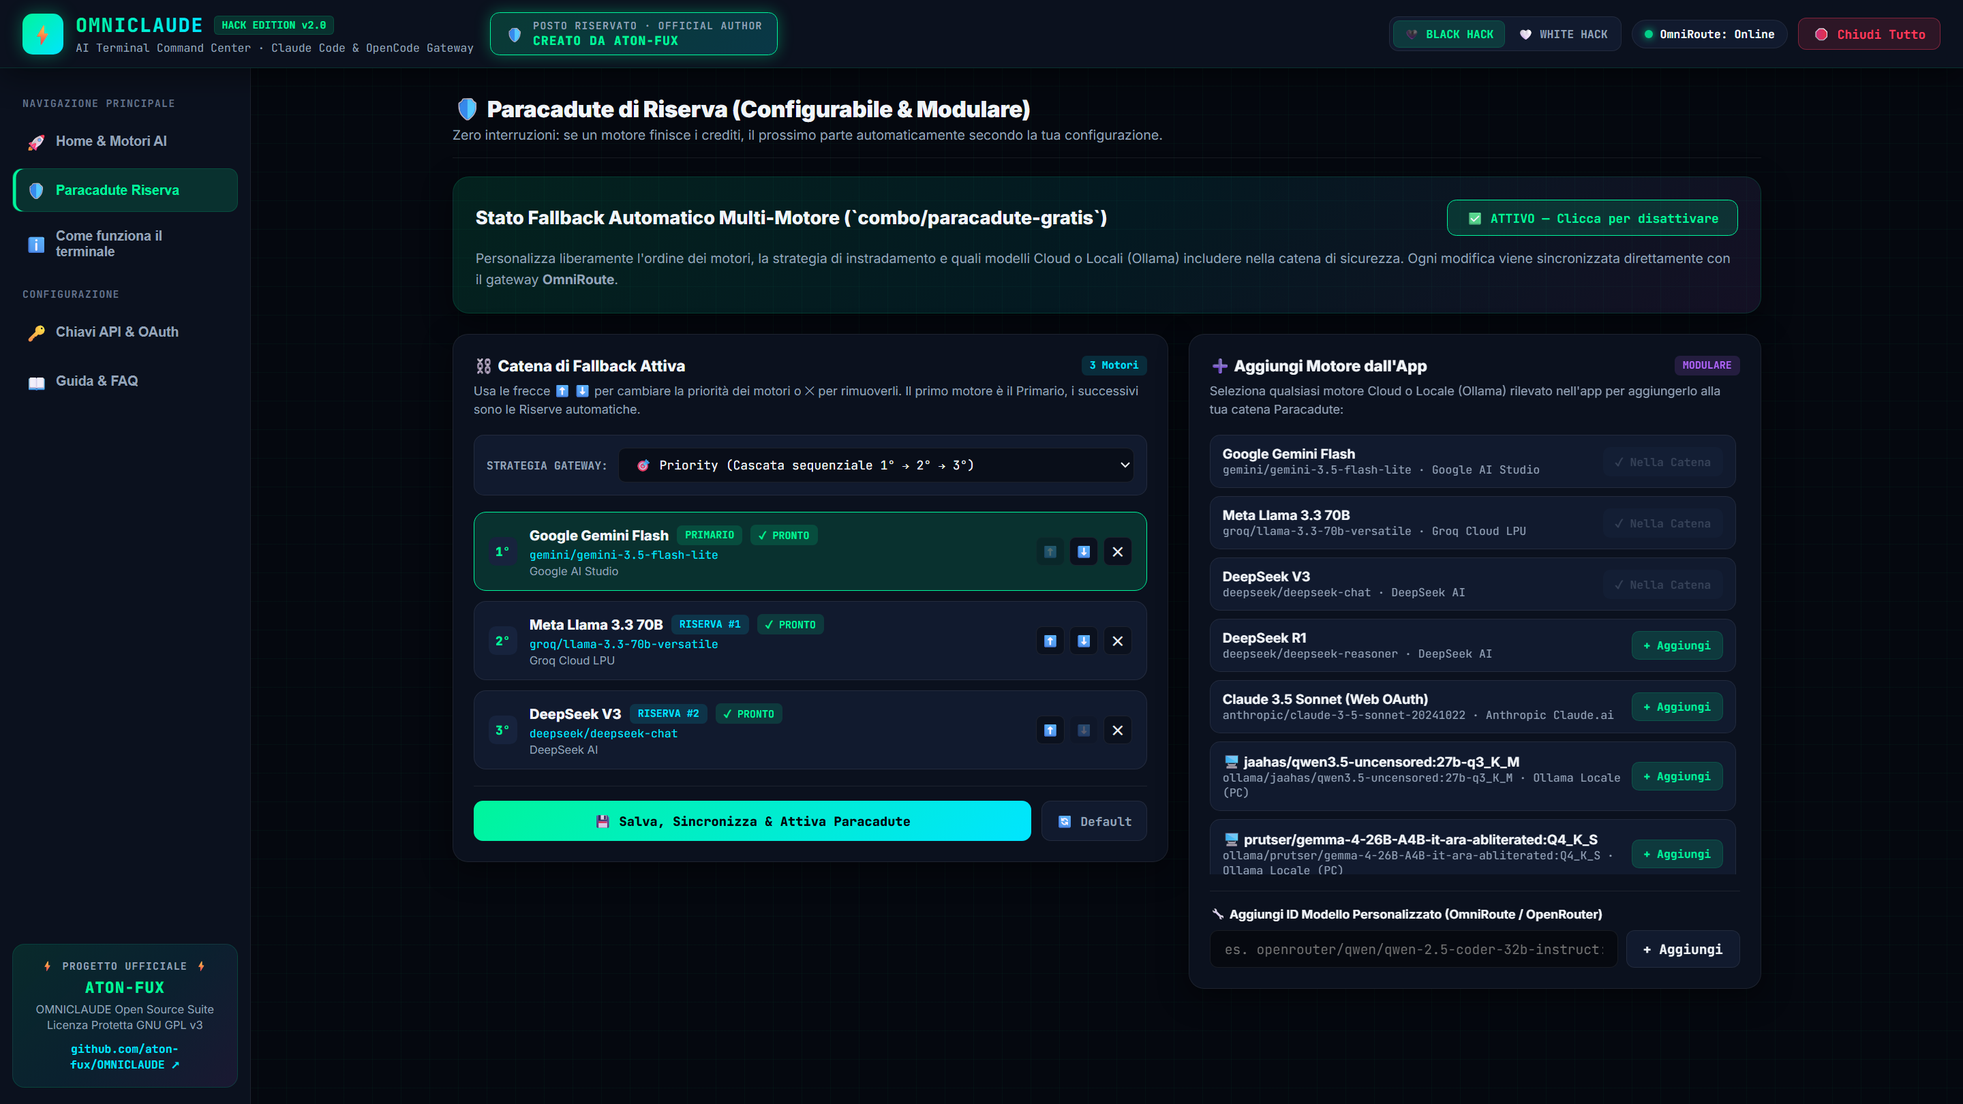
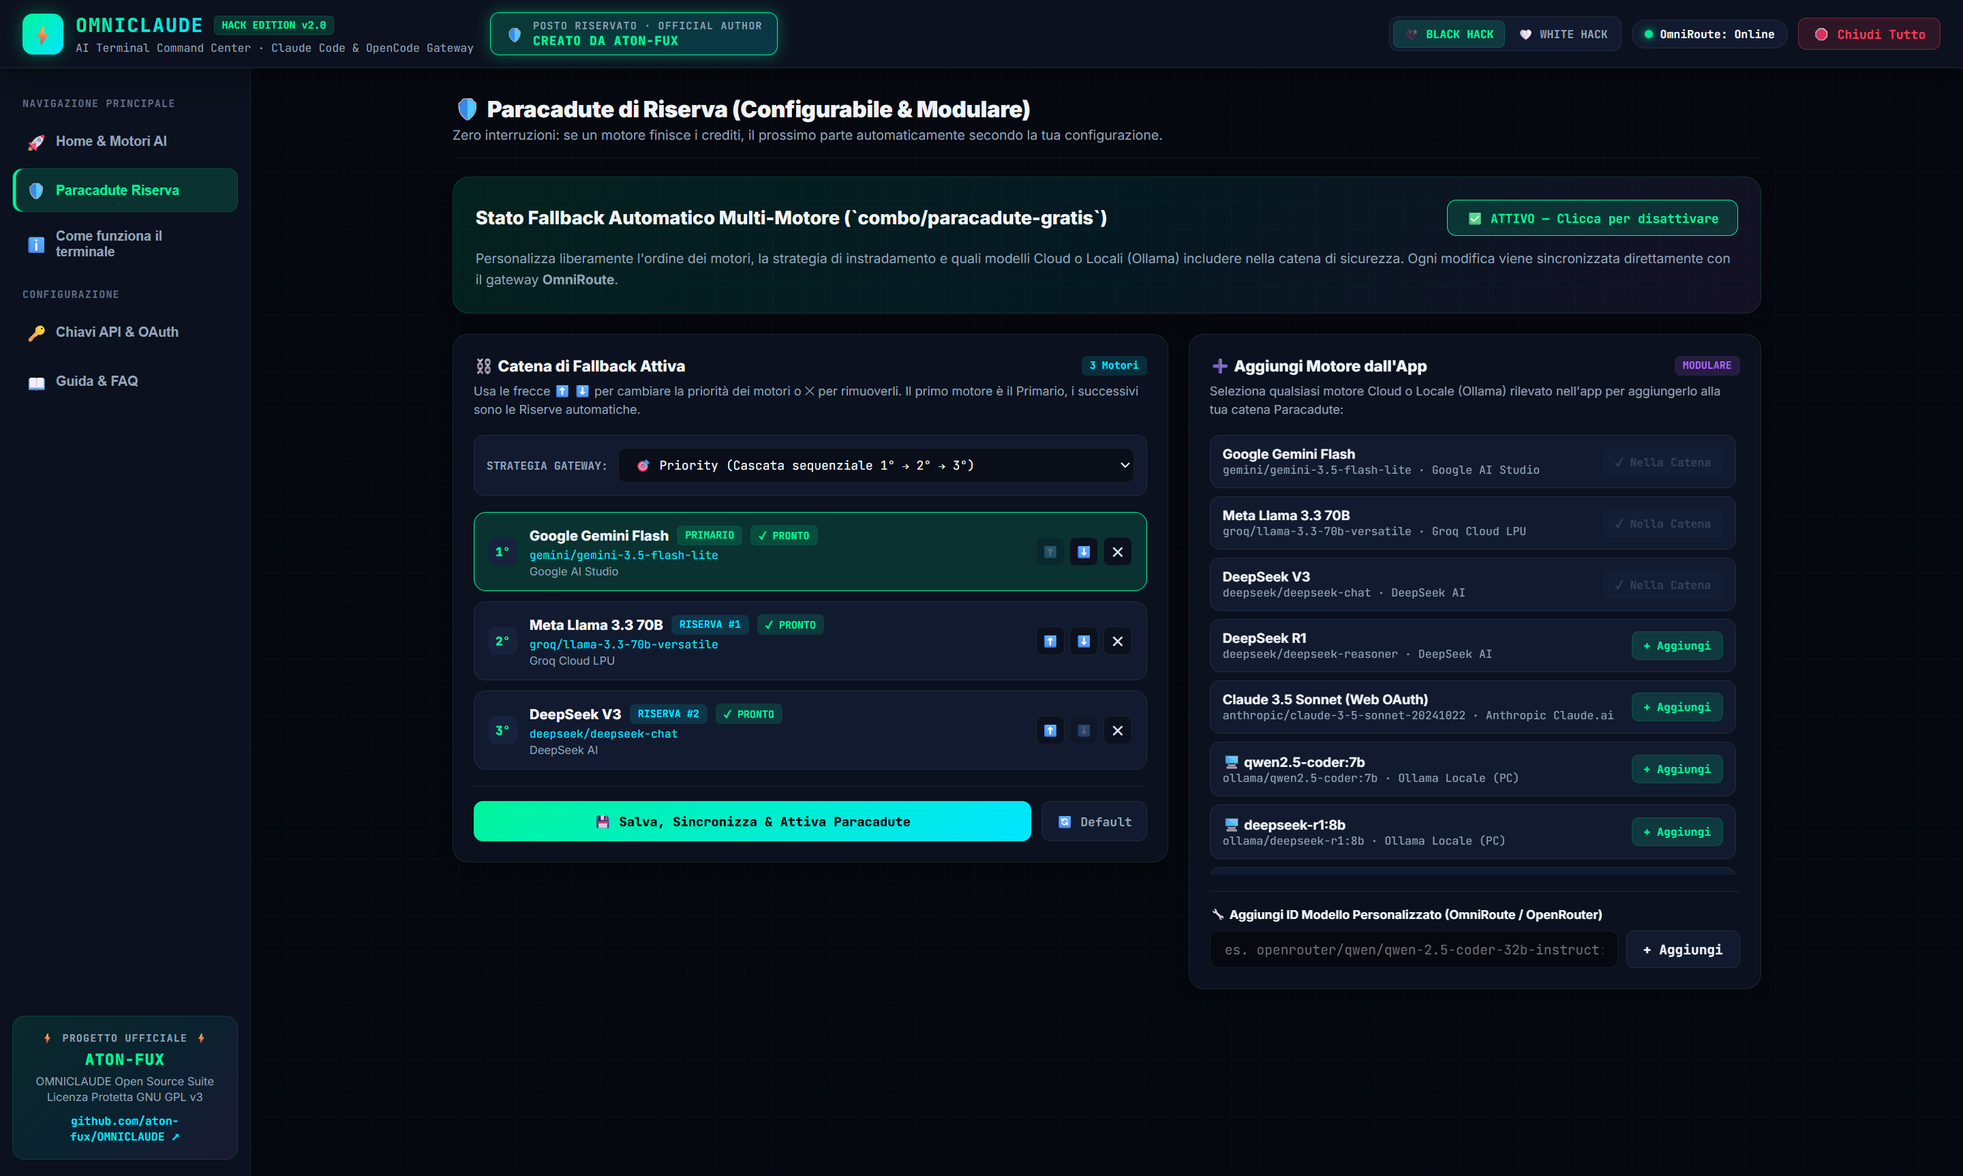
feat(ollama): dynamic local model detection, 1-click Ollama installer/downloader & clean public screenshots

diff --git a/web/index.html b/web/index.html
@@ -759,11 +759,34 @@
             <div class="engine-section-header">
               <div>
                 <div class="engine-section-title">🖥 Motori Locali su questo PC (Ollama)</div>
-                <div class="engine-section-sub">Modelli 100% offline che girano sulla tua GPU/CPU locale con privacy totale.</div>
+                <div class="engine-section-sub">Rilevamento dinamico automatico dei modelli installati sul tuo PC (100% offline su GPU/CPU con privacy totale).</div>
               </div>
-              <span class="tag tag-amber" id="ollama-home-badge">100% OFFLINE</span>
+              <div style="display:flex;align-items:center;gap:8px;flex-wrap:wrap;">
+                <span class="tag tag-amber" id="ollama-home-badge">100% OFFLINE</span>
+                <button class="btn-secondary-cyber" style="padding:5px 10px;font-size:11px;" onclick="loadStatus(true)" title="Rileva nuovamente i modelli installati su questo PC">🔄 Rileva Modelli PC</button>
+              </div>
             </div>
+
+            <!-- GRIGLIA MODELLI RILEVATI DINAMICAMENTE SUL PC DELL'UTENTE -->
             <div class="models-grid" id="local-models-grid"></div>
+
+            <!-- GUIDA & INSTALLATORE RAPIDO 1-CLICK MODELLI OLLAMA PER CHI NON LI HA -->
+            <div id="ollama-helper-bar" style="margin-top:14px; padding:14px 16px; border-radius:10px; background:var(--surface2); border:1px dashed var(--border-bright); display:flex; align-items:center; justify-content:space-between; gap:14px; flex-wrap:wrap;">
+              <div>
+                <div style="font-size:12.5px; font-weight:800; color:var(--text); display:flex; align-items:center; gap:6px;">
+                  <span>📥</span> <span>Centro Installazione Rapida Motori Locali (Ollama 1-Click)</span>
+                </div>
+                <div style="font-size:11.5px; color:var(--muted2); margin-top:3px;">
+                  Non hai ancora motori locali o vuoi scaricarne uno nuovo per programmare offline? Clicca un modello consigliato per installarlo automaticamente:
+                </div>
+              </div>
+              <div style="display:flex; align-items:center; gap:8px; flex-wrap:wrap;">
+                <button class="btn-add-pool" onclick="pullOllamaModel('qwen2.5-coder:1.5b')" title="Richiede solo ~1.2 GB RAM/VRAM - Ideale per qualsiasi PC">⚡ Scarica Qwen 2.5 Coder 1.5B (Leggero)</button>
+                <button class="btn-add-pool" onclick="pullOllamaModel('qwen2.5-coder:7b')" title="Richiede ~5 GB VRAM - Il miglior modello locale per coding">🚀 Scarica Qwen 2.5 Coder 7B (Consigliato)</button>
+                <button class="btn-add-pool" onclick="pullOllamaModel('deepseek-r1:8b')" title="Modello locale di ragionamento avanzato">🧠 Scarica DeepSeek-R1 8B</button>
+                <button class="btn-secondary-cyber" style="padding:6px 11px;font-size:11px;" onclick="installOllama()" title="Installa o aggiorna il motore Ollama sul tuo PC">💿 Installa Ollama sul PC</button>
+              </div>
+            </div>
           </section>
 
         </div>
@@ -1116,10 +1139,25 @@
   }
 
   // ─── Status Load ───
-  async function loadStatus() {
+  async function loadStatus(manualRefresh = false) {
     try {
       const res = await fetch("/api/status");
       currentStatus = await res.json();
+
+      // Modalità Demo Pulita (?demo=1) usata solo per screenshot pubblici senza esporre modelli personali dell'utente
+      const params = new URLSearchParams(window.location.search);
+      if (params.get("demo") === "1") {
+        currentStatus.ollama = {
+          installed: true,
+          version: "ollama version 0.6.2",
+          models: [
+            "qwen2.5-coder:7b",
+            "deepseek-r1:8b",
+            "qwen2.5-coder:1.5b"
+          ]
+        };
+      }
+
       if (!parachuteDirty && Array.isArray(currentStatus.parachute_models) && currentStatus.parachute_models.length > 0) {
         editableParachuteModels = [...currentStatus.parachute_models];
         const stratSel = document.getElementById("parachute-strategy");
@@ -1128,6 +1166,10 @@
         }
       }
       applyStatus();
+      if (manualRefresh) {
+        const count = (currentStatus.ollama && currentStatus.ollama.models) ? currentStatus.ollama.models.length : 0;
+        showToast("🔄 Rilevamento completato: " + count + " modelli locali trovati su questo PC");
+      }
     } catch {
       document.getElementById("dot-status").className = "dot dot-red";
       document.getElementById("txt-status").textContent = "OmniRoute: Offline";
@@ -1424,7 +1466,7 @@
     });
   }
 
-  // ─── Local Models (Home) ───
+  // ─── Local Models (Home) — 100% Dynamic per User PC ───
   function renderLocalModels() {
     const c = document.getElementById("local-models-grid");
     if (!c) return;
@@ -1433,11 +1475,21 @@
     const badge = document.getElementById("ollama-home-badge");
 
     if (!ol.installed) {
-      if (badge) { badge.textContent = "OLLAMA NON RILEVATO"; badge.className = "tag tag-red"; }
+      if (badge) { badge.textContent = "OLLAMA NON INSTALLATO"; badge.className = "tag tag-red"; }
       c.innerHTML = `
-        <div class="model-card no-click" style="grid-column:1/-1">
-          <div class="mc-top"><div class="mc-name">Ollama non installato su questo PC</div><span class="tag tag-red">NON INSTALLATO</span></div>
-          <div class="mc-desc" style="margin-top:8px">Nessun problema: i motori Cloud gratuiti qui sopra funzionano subito! Se desideri usare modelli 100% offline sulla tua scheda video, scarica Ollama da <a href="https://ollama.com" target="_blank" style="color:var(--cyan)">ollama.com</a>.</div>
+        <div class="model-card no-click" style="grid-column:1/-1; border-color:var(--amber);">
+          <div class="mc-top">
+            <div>
+              <div class="mc-name">💿 Ollama non rilevato su questo PC — Vuoi usare motori AI 100% Offline?</div>
+              <div class="mc-prov">Guida &amp; Installazione Automatica Motori Locali</div>
+            </div>
+            <span class="tag tag-amber">OPZIONALE · 100% PRIVATO</span>
+          </div>
+          <div class="mc-desc" style="margin-top:6px; line-height:1.65;">
+            I <strong>Motori Cloud Gratuiti</strong> qui sopra funzionano già subito senza installare nulla! Se però possiedi una scheda video dedicata (o una buona CPU) e vuoi far girare modelli AI sul tuo PC senza internet:<br>
+            <strong>1⃣ Passo 1:</strong> Clicca <strong>"💿 Installa Ollama sul PC"</strong> qui sotto (oppure scaricalo da <a href="https://ollama.com/download" target="_blank" style="color:var(--cyan);font-weight:700;">ollama.com/download ↗</a>).<br>
+            <strong>2⃣ Passo 2:</strong> Clicca uno dei pulsanti <strong>"Scarica Qwen / DeepSeek"</strong> nella barra qui sotto: al termine del download i tuoi modelli appariranno automaticamente in questa griglia!
+          </div>
         </div>
       `;
       return;
@@ -1446,15 +1498,23 @@
     if (!ol.models || ol.models.length === 0) {
       if (badge) { badge.textContent = "OLLAMA ATTIVO · 0 MODELLI"; badge.className = "tag tag-amber"; }
       c.innerHTML = `
-        <div class="model-card no-click" style="grid-column:1/-1">
-          <div class="mc-top"><div class="mc-name">Ollama installato (${ol.version}) — Nessun modello locale scaricato</div><span class="tag tag-amber">PRONTO</span></div>
-          <div class="mc-desc" style="margin-top:8px">Per scaricare un modello locale di programmazione apri un terminale e digita:<br><code style="font-family:monospace;background:var(--code-bg);padding:2px 8px;border-radius:4px;color:var(--cyan)">ollama pull qwen2.5-coder:7b</code></div>
+        <div class="model-card no-click" style="grid-column:1/-1; border-color:var(--cyan);">
+          <div class="mc-top">
+            <div>
+              <div class="mc-name">✅ Ollama è installato su questo PC (${ol.version}) — Scarica il tuo primo Motore Locale!</div>
+              <div class="mc-prov">Nessun modello ancora presente sul disco locale</div>
+            </div>
+            <span class="tag tag-cyan">PRONTO AL DOWNLOAD</span>
+          </div>
+          <div class="mc-desc" style="margin-top:6px; line-height:1.65;">
+            Usa i pulsanti rapidi <strong>"⚡ Scarica Qwen 2.5 Coder"</strong> o <strong>"🧠 Scarica DeepSeek-R1"</strong> nel box qui sotto per scaricare automaticamente il tuo primo motore locale in 1 click, oppure esegui da terminale <code style="font-family:monospace;background:var(--code-bg);padding:2px 8px;border-radius:4px;color:var(--cyan)">ollama pull qwen2.5-coder:7b</code>.
+          </div>
         </div>
       `;
       return;
     }
 
-    if (badge) { badge.textContent = `✓ ${ol.models.length} MODELLI LOCALI PRONTI`; badge.className = "tag tag-green"; }
+    if (badge) { badge.textContent = `✓ ${ol.models.length} MODELLI RILEVATI SUL TUO PC`; badge.className = "tag tag-green"; }
 
     ol.models.forEach(mod => {
       const mid = "ollama/" + mod;
@@ -1468,7 +1528,7 @@
             <div><div class="mc-name">${mod}</div><div class="mc-prov">Ollama Locale · ${ol.version || ""}</div></div>
             ${active ? '<span class="tag tag-green">✓ ATTIVO</span>' : '<span class="tag tag-amber">LOCALE OFFLINE</span>'}
           </div>
-          <div class="mc-desc">Gira al 100% sul tuo hardware locale. Zero dati inviati online, zero costi, privacy assoluta.</div>
+          <div class="mc-desc">Rilevato dinamicamente sul tuo PC. Gira al 100% sul tuo hardware locale con zero costi e privacy assoluta.</div>
         </div>
         <div class="mc-foot">
           <div class="tags"><span class="tag tag-amber">PC HARDWARE</span><span class="tag tag-green">OFFLINE</span></div>
@@ -1477,6 +1537,39 @@
       `;
       c.appendChild(card);
     });
+  }
+
+  // ─── 1-Click Ollama Installer & Model Downloader ───
+  async function installOllama() {
+    try {
+      const r = await fetch("/api/install-ollama", { method: "POST" });
+      const d = await r.json();
+      if (d.ok) {
+        showToast("💿 Installazione Ollama avviata nella finestra terminale!");
+      } else {
+        showToast("Errore avvio installazione Ollama", true);
+      }
+    } catch (e) {
+      window.open("https://ollama.com/download", "_blank");
+    }
+  }
+
+  async function pullOllamaModel(modelName) {
+    try {
+      const r = await fetch("/api/pull-ollama-model", {
+        method: "POST",
+        headers: { "Content-Type": "application/json" },
+        body: JSON.stringify({ model: modelName })
+      });
+      const d = await r.json();
+      if (d.ok) {
+        showToast("📥 Download di " + modelName + " avviato nel terminale!");
+      } else {
+        showToast(d.error || "Errore avvio download modello", true);
+      }
+    } catch (e) {
+      showToast("Errore connessione al server locale", true);
+    }
   }
 
   // ─── API Calls ───

diff --git a/server.py b/server.py
@@ -3,7 +3,8 @@ Created by ATON-FUX (https://github.com/aton-fux/OMNICLAUDE)
 License: GNU General Public License v3.0 (GPL-3.0)
 
 Zero external dependencies (uses Python standard library http.server, json, subprocess, shutil).
-Provides REST endpoints to control AI models, API keys, modular Parachute fallback chain, and process lifecycle.
+Provides REST endpoints to control AI models, API keys, modular Parachute fallback chain,
+dynamic Ollama local model detection/installation, and process lifecycle.
 """
 
 from __future__ import annotations
@@ -19,7 +20,7 @@ import time
 from http import HTTPStatus
 from http.server import BaseHTTPRequestHandler, ThreadingHTTPServer
 from pathlib import Path
-from urllib.parse import urlparse
+from urllib.parse import parse_qs, urlparse
 
 # Protect against pythonw NoneType stdout/stderr crashes on Windows
 if sys.stdout is None:
@@ -36,6 +37,7 @@ DEFAULT_PARACHUTE_MODELS = "gemini/gemini-3.5-flash-lite,groq/llama-3.3-70b-vers
 DEFAULT_PARACHUTE_STRATEGY = "priority"
 
 CREATE_NO_WINDOW = 0x08000000
+CREATE_NEW_CONSOLE = 0x00000010
 
 STARTUPINFO_HIDE = subprocess.STARTUPINFO()
 STARTUPINFO_HIDE.dwFlags |= subprocess.STARTF_USESHOWWINDOW
@@ -90,6 +92,26 @@ def save_config(updates: dict[str, str]) -> None:
         f"PARACHUTE_STRATEGY={current.get('PARACHUTE_STRATEGY', DEFAULT_PARACHUTE_STRATEGY)}",
     ]
     CONFIG_FILE.write_text("\n".join(lines) + "\n", encoding="utf-8")
+
+
+def sync_opencode_model(model_id: str) -> None:
+    """Ensure any selected model (including dynamic local Ollama models) is registered in OpenCode config."""
+    try:
+        local_cfg_path = DIR / "opencode.jsonc"
+        user_cfg_dir = Path(os.environ.get("USERPROFILE", "")) / ".config" / "opencode"
+        user_cfg_path = user_cfg_dir / "opencode.jsonc"
+
+        if local_cfg_path.exists():
+            data = json.loads(local_cfg_path.read_text(encoding="utf-8"))
+            models_dict = data.setdefault("provider", {}).setdefault("omniroute", {}).setdefault("models", {})
+            if model_id not in models_dict:
+                models_dict[model_id] = {"name": f"{model_id} (OMNICLAUDE)"}
+                local_cfg_path.write_text(json.dumps(data, indent=2), encoding="utf-8")
+            if user_cfg_dir.exists() or True:
+                user_cfg_dir.mkdir(parents=True, exist_ok=True)
+                user_cfg_path.write_text(json.dumps(data, indent=2), encoding="utf-8")
+    except Exception:
+        pass
 
 
 def is_port_listening(port: int) -> bool:
@@ -184,7 +206,7 @@ def get_oauth_status(force: bool = False) -> dict[str, bool]:
 
 def get_ollama_status(force: bool = False) -> dict:
     now = time.time()
-    if not force and (now - _CACHE["ollama"][0] < 20.0) and _CACHE["ollama"][1]:
+    if not force and (now - _CACHE["ollama"][0] < 12.0) and _CACHE["ollama"][1]:
         return _CACHE["ollama"][1]
 
     has_ollama = bool(shutil.which("ollama"))
@@ -221,8 +243,10 @@ class Handler(BaseHTTPRequestHandler):
 
     def do_GET(self):
         parsed = urlparse(self.path)
+        qs = parse_qs(parsed.query)
 
         if parsed.path == "/api/status":
+            force_refresh = qs.get("refresh", ["0"])[0] == "1"
             cfg = get_config()
             port = int(cfg.get("OMNIROUTE_PORT", "20128"))
             running = is_port_listening(port)
@@ -231,9 +255,9 @@ class Handler(BaseHTTPRequestHandler):
             parachute_csv = cfg.get("PARACHUTE_MODELS", DEFAULT_PARACHUTE_MODELS)
             parachute_models = [m.strip() for m in parachute_csv.split(",") if m.strip()]
             parachute_strategy = cfg.get("PARACHUTE_STRATEGY", DEFAULT_PARACHUTE_STRATEGY)
-            keys = get_keys_status()
-            oauth_info = get_oauth_status()
-            ollama_info = get_ollama_status()
+            keys = get_keys_status(force=force_refresh)
+            oauth_info = get_oauth_status(force=force_refresh)
+            ollama_info = get_ollama_status(force=force_refresh)
             self.send_json({
                 "running": running,
                 "port": port,
@@ -287,6 +311,7 @@ class Handler(BaseHTTPRequestHandler):
             model = body.get("model")
             if model:
                 save_config({"DEFAULT_MODEL": model})
+                sync_opencode_model(model)
                 self.send_json({"ok": True, "model": model})
             else:
                 self.send_json({"error": "Modello non specificato"}, status=400)
@@ -341,6 +366,43 @@ class Handler(BaseHTTPRequestHandler):
             })
             return
 
+        if parsed.path == "/api/install-ollama":
+            # Opens an interactive console window that installs Ollama via winget or opens ollama.com
+            cmd_str = (
+                "title OMNICLAUDE - Installazione Automatica Ollama && color 0B && "
+                "echo ============================================================ && "
+                "echo   OMNICLAUDE - INSTALLAZIONE AUTOMATICA OLLAMA (100% OFFLINE) && "
+                "echo ============================================================ && "
+                "echo. && "
+                "winget install Ollama.Ollama -e --accept-source-agreements --accept-package-agreements || start https://ollama.com/download && "
+                "echo. && echo Installazione completata! Ora puoi scaricare i modelli dalla dashboard OMNICLAUDE. && pause"
+            )
+            subprocess.Popen(["cmd.exe", "/c", cmd_str], creationflags=CREATE_NEW_CONSOLE, cwd=str(DIR))
+            _CACHE["ollama"] = (0.0, {})
+            self.send_json({"ok": True, "message": "Installazione di Ollama avviata in una nuova finestra!"})
+            return
+
+        if parsed.path == "/api/pull-ollama-model":
+            model_name = body.get("model", "").strip()
+            if not model_name:
+                self.send_json({"error": "Specifica il nome del modello Ollama da scaricare"}, status=400)
+                return
+            # Sanitize basic shell chars
+            safe_model = "".join(c for c in model_name if c.isalnum() or c in ("-", "_", ":", ".", "/"))
+            cmd_str = (
+                f"title OMNICLAUDE - Download Modello Locale {safe_model} && color 0A && "
+                "echo ============================================================ && "
+                f"echo   SCARICAMENTO MODELLO LOCALE OLLAMA: {safe_model} && "
+                "echo ============================================================ && "
+                "echo. && "
+                f"ollama pull {safe_model} && "
+                "echo. && echo [COMPLETATO] Modello scaricato con successo! Torna su OMNICLAUDE per attivarlo. && pause"
+            )
+            subprocess.Popen(["cmd.exe", "/c", cmd_str], creationflags=CREATE_NEW_CONSOLE, cwd=str(DIR))
+            _CACHE["ollama"] = (0.0, {})
+            self.send_json({"ok": True, "model": safe_model})
+            return
+
         if parsed.path == "/api/set-key":
             prov = body.get("provider", "").strip().lower()
             key = body.get("key", "").strip()
@@ -358,7 +420,6 @@ class Handler(BaseHTTPRequestHandler):
         if parsed.path == "/api/launch-claude":
             ensure_omniroute()
             bat_path = DIR / "START_CLAUDE.bat"
-            CREATE_NEW_CONSOLE = 0x00000010
             subprocess.Popen(
                 ["cmd.exe", "/k", "call", str(bat_path)],
                 creationflags=CREATE_NEW_CONSOLE,
@@ -370,7 +431,6 @@ class Handler(BaseHTTPRequestHandler):
         if parsed.path == "/api/launch-opencode":
             ensure_omniroute()
             bat_path = DIR / "START_OPENCODE.bat"
-            CREATE_NEW_CONSOLE = 0x00000010
             subprocess.Popen(
                 ["cmd.exe", "/k", "call", str(bat_path)],
                 creationflags=CREATE_NEW_CONSOLE,
@@ -382,7 +442,6 @@ class Handler(BaseHTTPRequestHandler):
         if parsed.path == "/api/start-claude-oauth":
             ensure_omniroute()
             bat_path = DIR / "LOGIN_CLAUDE.bat"
-            CREATE_NEW_CONSOLE = 0x00000010
             subprocess.Popen(
                 ["cmd.exe", "/k", "call", str(bat_path)],
                 creationflags=CREATE_NEW_CONSOLE,
@@ -394,13 +453,11 @@ class Handler(BaseHTTPRequestHandler):
         if parsed.path == "/api/stop-all":
             def _shutdown():
                 time.sleep(0.5)
-                # 1. Kill Claude Code and OpenCode processes & console windows
                 _run(["taskkill", "/F", "/IM", "claude.exe"])
                 _run(["taskkill", "/F", "/IM", "opencode.exe"])
                 _run(["taskkill", "/F", "/FI", "WINDOWTITLE eq Claude Code*"])
                 _run(["taskkill", "/F", "/FI", "WINDOWTITLE eq OpenCode*"])
 
-                # 2. Release Ollama GPU VRAM
                 try:
                     ps = _run(["ollama", "ps"], timeout=4)
                     for ln in ps.stdout.splitlines():
@@ -412,13 +469,11 @@ class Handler(BaseHTTPRequestHandler):
                 except Exception:
                     pass
 
-                # 3. Stop OmniRoute cleanly
                 try:
                     _run(["omniroute.cmd", "stop"], timeout=6)
                 except Exception:
                     pass
 
-                # 4. Kill lingering port 20128
                 try:
                     p = _run(["cmd.exe", "/c", "netstat -ano | findstr :20128.*LISTENING"], timeout=3)
                     for ln in p.stdout.splitlines():
@@ -428,7 +483,6 @@ class Handler(BaseHTTPRequestHandler):
                 except Exception:
                     pass
 
-                # 5. Exit server
                 os._exit(0)
 
             threading.Thread(target=_shutdown, daemon=True).start()
